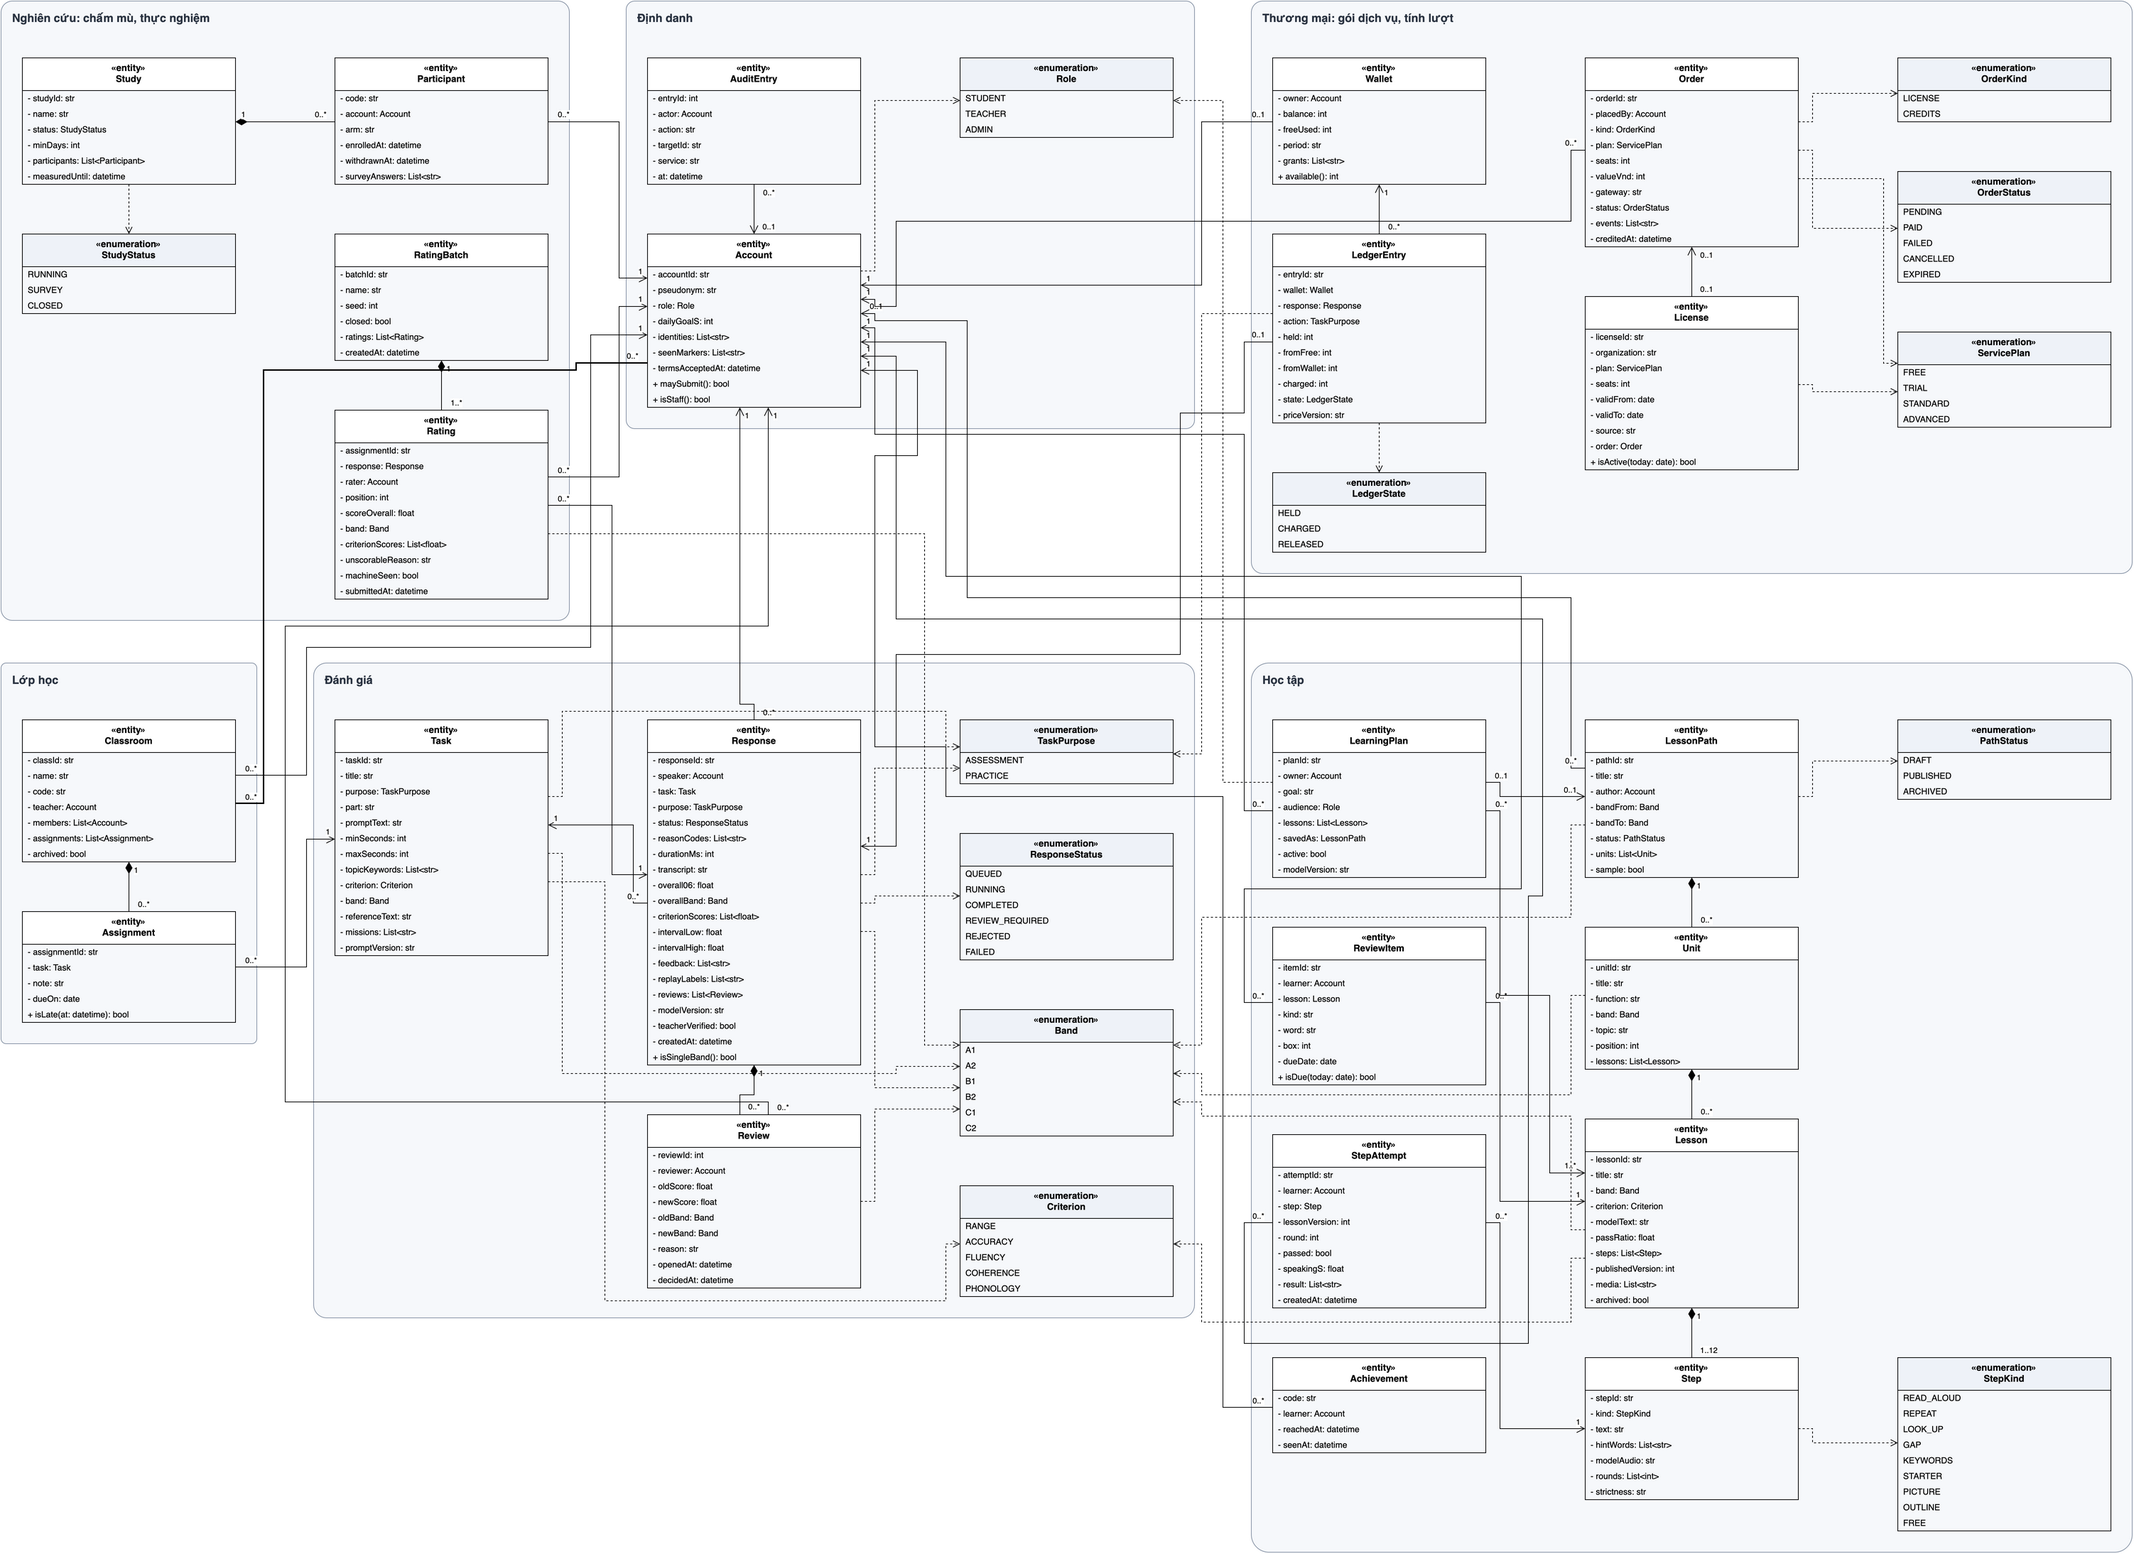
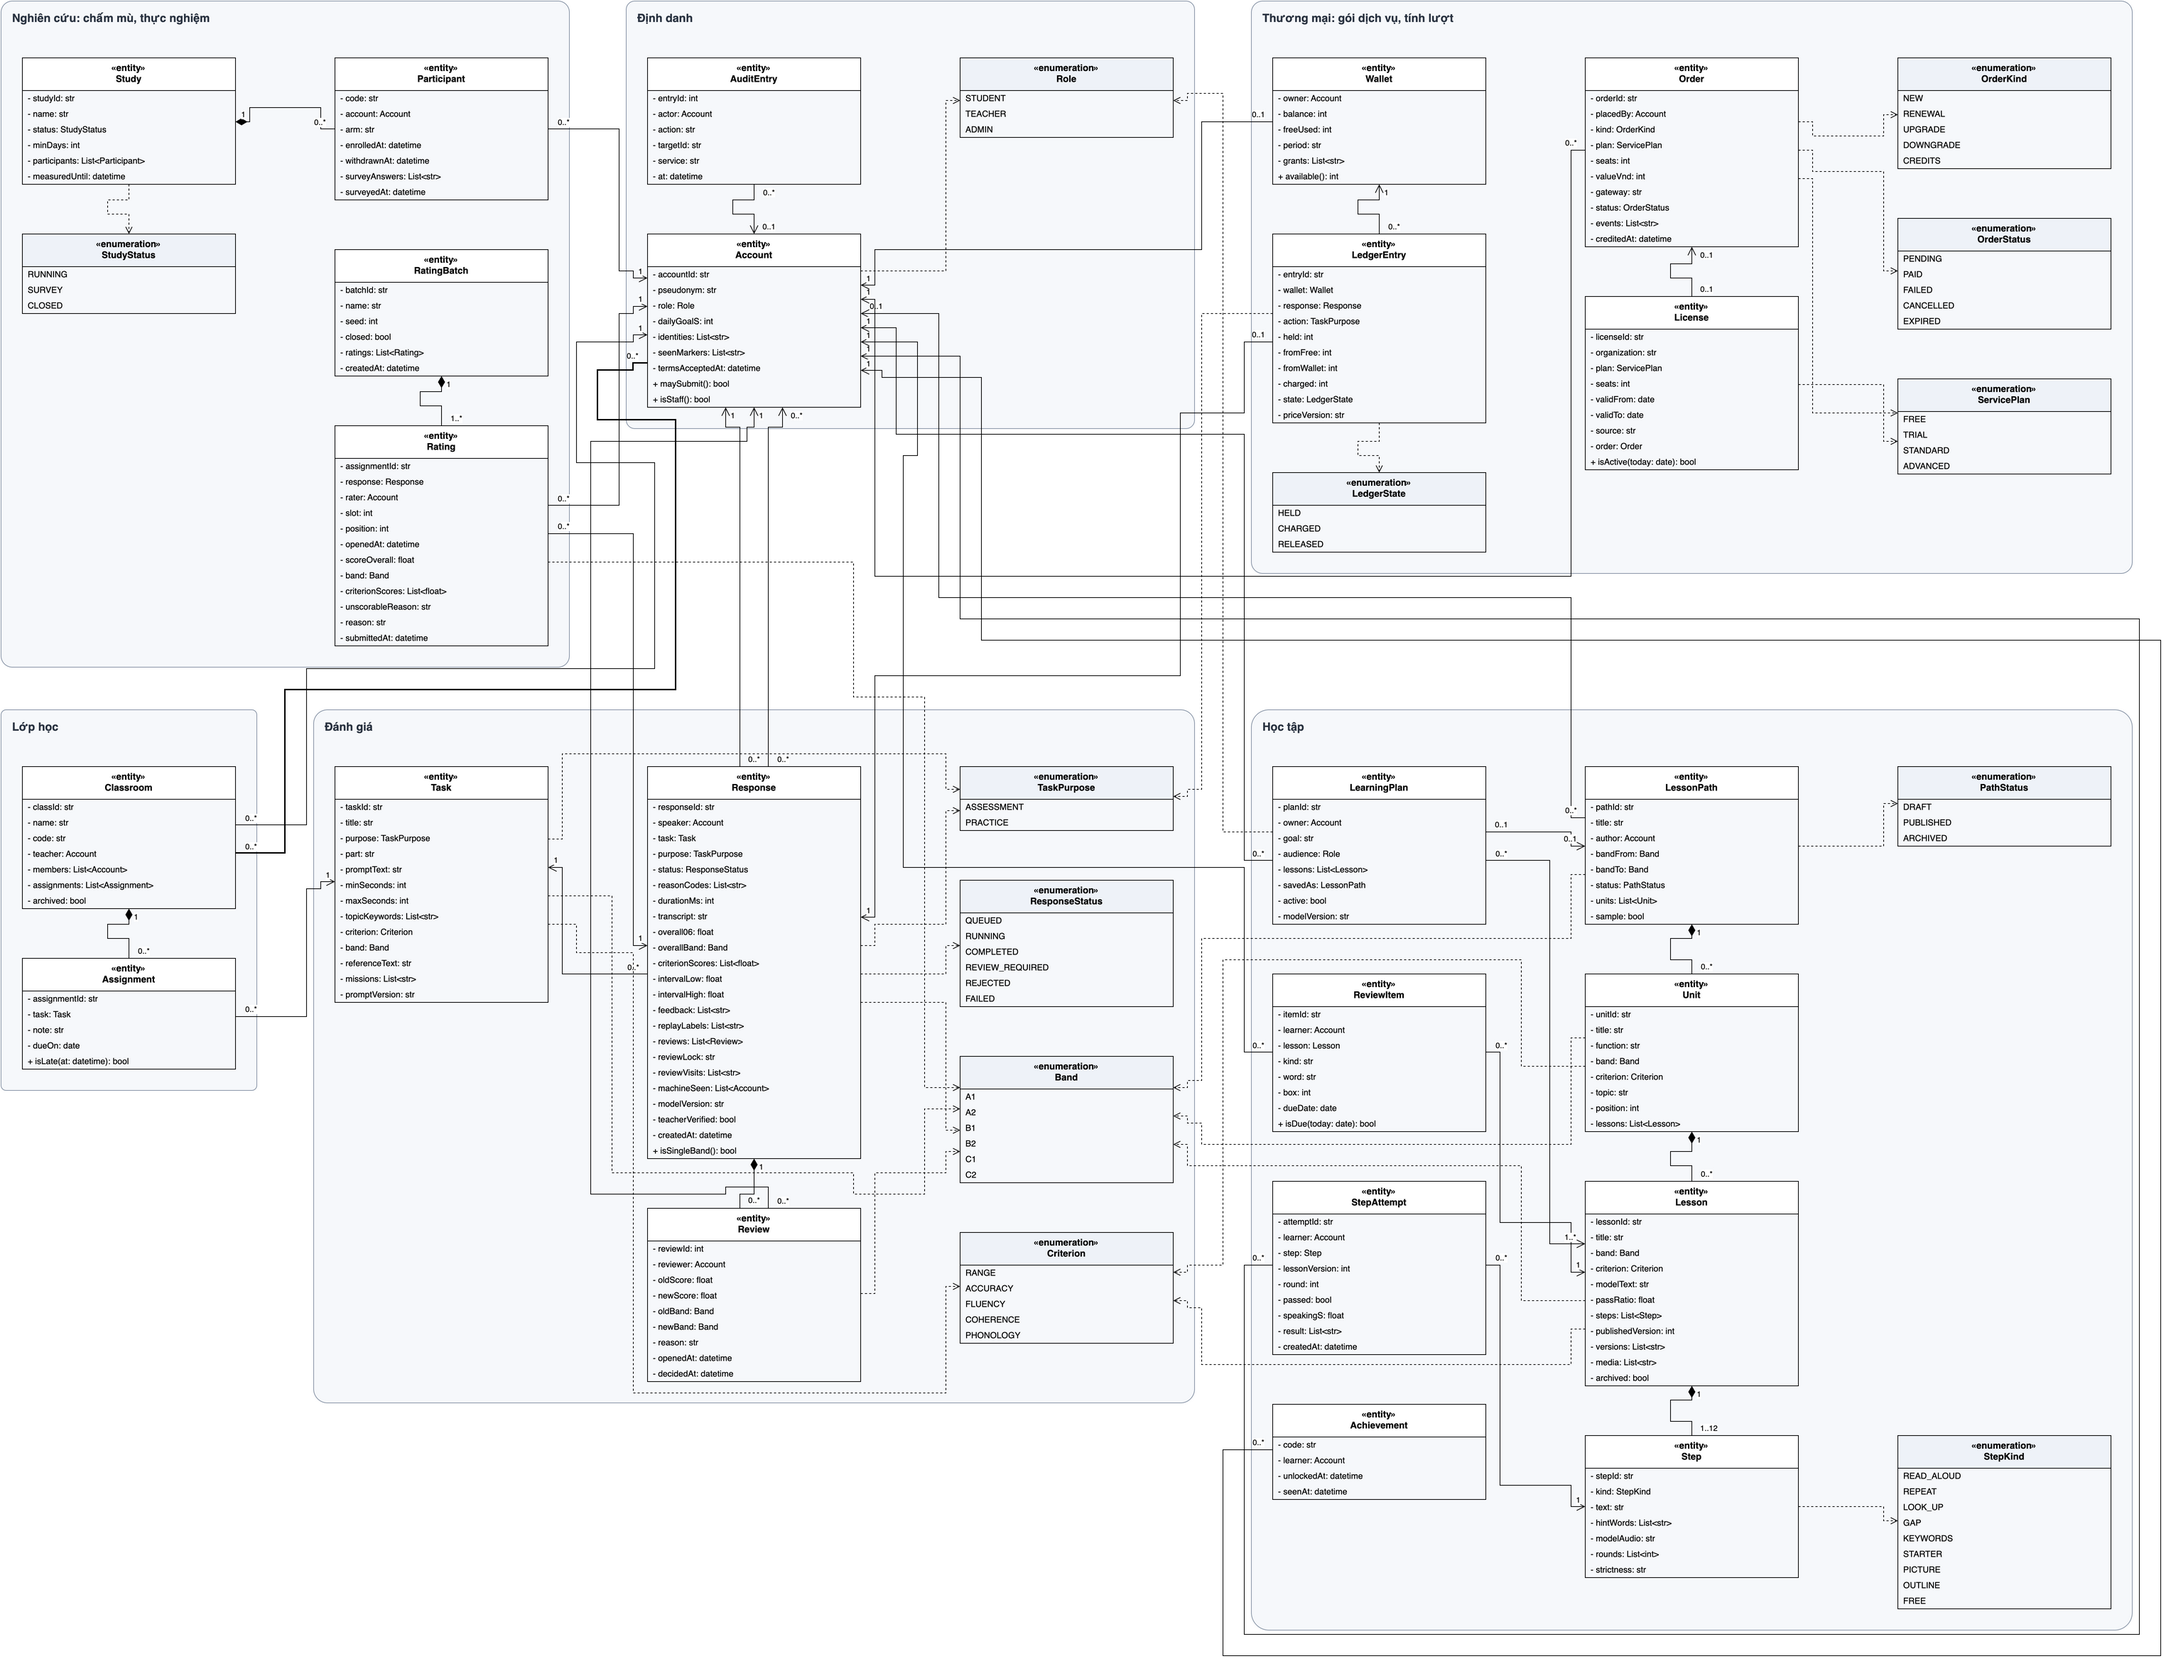
docs(D060): sơ đồ lớp khớp code đã rã, test_diagrams xanh
Thuộc tính theo lớp miền trong code: Response có reviewLock, reviewVisits,
machineSeen (Account, nhiều); Rating có slot, openedAt, reason, bỏ machineSeen
(suy ra); Unit có criterion; Lesson có versions; Achievement.unlockedAt;
OrderKind năm giá trị. Bộ tìm đường giữ chỗ trước đoạn ra cổng của mọi đường
và phạt nặng việc chạy chồng (300). Chủ sở hữu của phần hợp thành chỉ xét
trong các lớp có vẽ: Candidate của bộ ghép lộ trình chỉ trỏ tới Lesson.

diff --git a/tools/gen_class_diagram.py b/tools/gen_class_diagram.py
@@ -189,6 +189,9 @@ CLASSES = [
             "- feedback: List<str>",
             "- replayLabels: List<str>",
             "- reviews: Review [0..*]",
+            "- reviewLock: str",
+            "- reviewVisits: List<str>",
+            "- machineSeen: Account [0..*]",
             "- modelVersion: str",
             "- teacherVerified: bool",
             "- createdAt: datetime",
@@ -229,12 +232,14 @@ CLASSES = [
             "- assignmentId: str",
             "- response: Response [1]",
             "- rater: Account [1]",
+            "- slot: int",
             "- position: int",
+            "- openedAt: datetime",
             "- scoreOverall: float",
             "- band: Band",
             "- criterionScores: List<float>",
             "- unscorableReason: str",
-            "- machineSeen: bool",
+            "- reason: str",
             "- submittedAt: datetime",
         ],
     ),
@@ -309,6 +314,7 @@ CLASSES = [
             "- title: str",
             "- function: str",
             "- band: Band",
+            "- criterion: Criterion",
             "- topic: str",
             "- position: int",
             "- lessons: Lesson [0..*]",
@@ -326,6 +332,7 @@ CLASSES = [
             "- passRatio: float",
             "- steps: Step [1..12]",
             "- publishedVersion: int",
+            "- versions: List<str>",
             "- media: List<str>",
             "- archived: bool",
         ],
@@ -378,7 +385,7 @@ CLASSES = [
         [
             "- code: str",
             "- learner: Account [1]",
-            "- reachedAt: datetime",
+            "- unlockedAt: datetime",
             "- seenAt: datetime",
         ],
     ),
@@ -491,7 +498,7 @@ ENUMS = [
             "FREE",
         ],
     ),
-    _n("OrderKind", "OrderKind", ["LICENSE", "CREDITS"]),
+    _n("OrderKind", "OrderKind", ["NEW", "RENEWAL", "UPGRADE", "DOWNGRADE", "CREDITS"]),
     _n("OrderSt", "OrderStatus", ["PENDING", "PAID", "FAILED", "CANCELLED", "EXPIRED"]),
     _n("SvcPlan", "ServicePlan", ["FREE", "TRIAL", "STANDARD", "ADVANCED"]),
     _n("LedgerSt", "LedgerState", ["HELD", "CHARGED", "RELEASED"]),
@@ -505,6 +512,7 @@ EDGES = [
     ("Resp", "Task", "0..* : 1", "assoc"),
     ("Resp", "Review", "1 : 0..*", "comp"),
     ("Review", "Account", "0..* : 1", "assoc"),
+    ("Resp", "Account", "0..* : 0..*", "assoc"),
     ("Batch", "Rating", "1 : 1..*", "comp"),
     ("Rating", "Resp", "0..* : 1", "assoc"),
     ("Rating", "Account", "0..* : 1", "assoc"),
@@ -549,6 +557,7 @@ EDGES += [
         ("Lesson", "Band"),
         ("Task", "Criterion"),
         ("Lesson", "Criterion"),
+        ("Unit", "Criterion"),
         ("Task", "Purpose"),
         ("Resp", "Purpose"),
         ("Ledger", "Purpose"),

diff --git a/tools/zone_layout.py b/tools/zone_layout.py
@@ -30,7 +30,7 @@ CORRIDOR = 90  # between the top row of zones and the bottom row
 
 # Costs of the router, in grid steps.
 BEND = 10
-SAME_AXIS = 40  # running on top of another edge
+SAME_AXIS = 300  # running on top of another edge: go round instead
 NEXT_TO = (20, 6)  # running one / two cells beside another edge
 CROSS = 3
 FOREIGN_ZONE = 2
@@ -235,6 +235,29 @@ def route(edges, geo, zone_of, frames, width):
             else:
                 used_v[x0][y0] += 1
                 used_v[x1][y1] += 1
+
+    def reserve(p, side):
+        """Mark the short run from a port out to its first grid point as used.
+
+        Every edge's runs are reserved before any edge is routed: otherwise an
+        edge routed early lays its line right where a later edge has to leave
+        its box, and the two share that run.
+        """
+        gx, gy = stub(p, side)
+        if side in "LR":
+            x0 = int(p[0] // GRID)
+            for x in range(min(x0, gx), max(x0, gx) + 1):
+                if 0 <= x < nx and 0 <= gy < ny:
+                    used_h[x][gy] += 1
+        else:
+            y0 = int(p[1] // GRID)
+            for y in range(min(y0, gy), max(y0, gy) + 1):
+                if 0 <= gx < nx and 0 <= y < ny:
+                    used_v[gx][y] += 1
+
+    for i in range(len(edges)):
+        reserve(port[(i, 0)], sides[i][0])
+        reserve(port[(i, 1)], sides[i][1])
 
     order = sorted(
         range(len(edges)),

diff --git a/tests/test_diagrams.py b/tests/test_diagrams.py
@@ -350,6 +350,11 @@ def test_every_composition_part_has_exactly_one_owner(diagram: pathlib.Path) -> 
         if "swimlane" in (c.get("style") or "")
     }
     fields = fields_by_class()
+    # Owning is a relation of the model, so the owners are looked for among
+    # the classes drawn. A class of the code that only points at a part while
+    # it computes -- the path composer's `Candidate` holds the `Lesson` it
+    # scores -- does not own it.
+    drawn = set(names.values())
     bad = []
     for c in cells:
         if c.get("edge") != "1" or "diamondThin" not in (c.get("style") or ""):
@@ -360,7 +365,7 @@ def test_every_composition_part_has_exactly_one_owner(diagram: pathlib.Path) -> 
         owners = [
             cls
             for cls, fs in fields.items()
-            if cls != part and any(_mentions(t, part) for t in fs.values())
+            if cls != part and cls in drawn and any(_mentions(t, part) for t in fs.values())
         ]
         if len(owners) > 1:
             bad.append(f"{part} bị {len(owners)} lớp chứa: {owners}")
